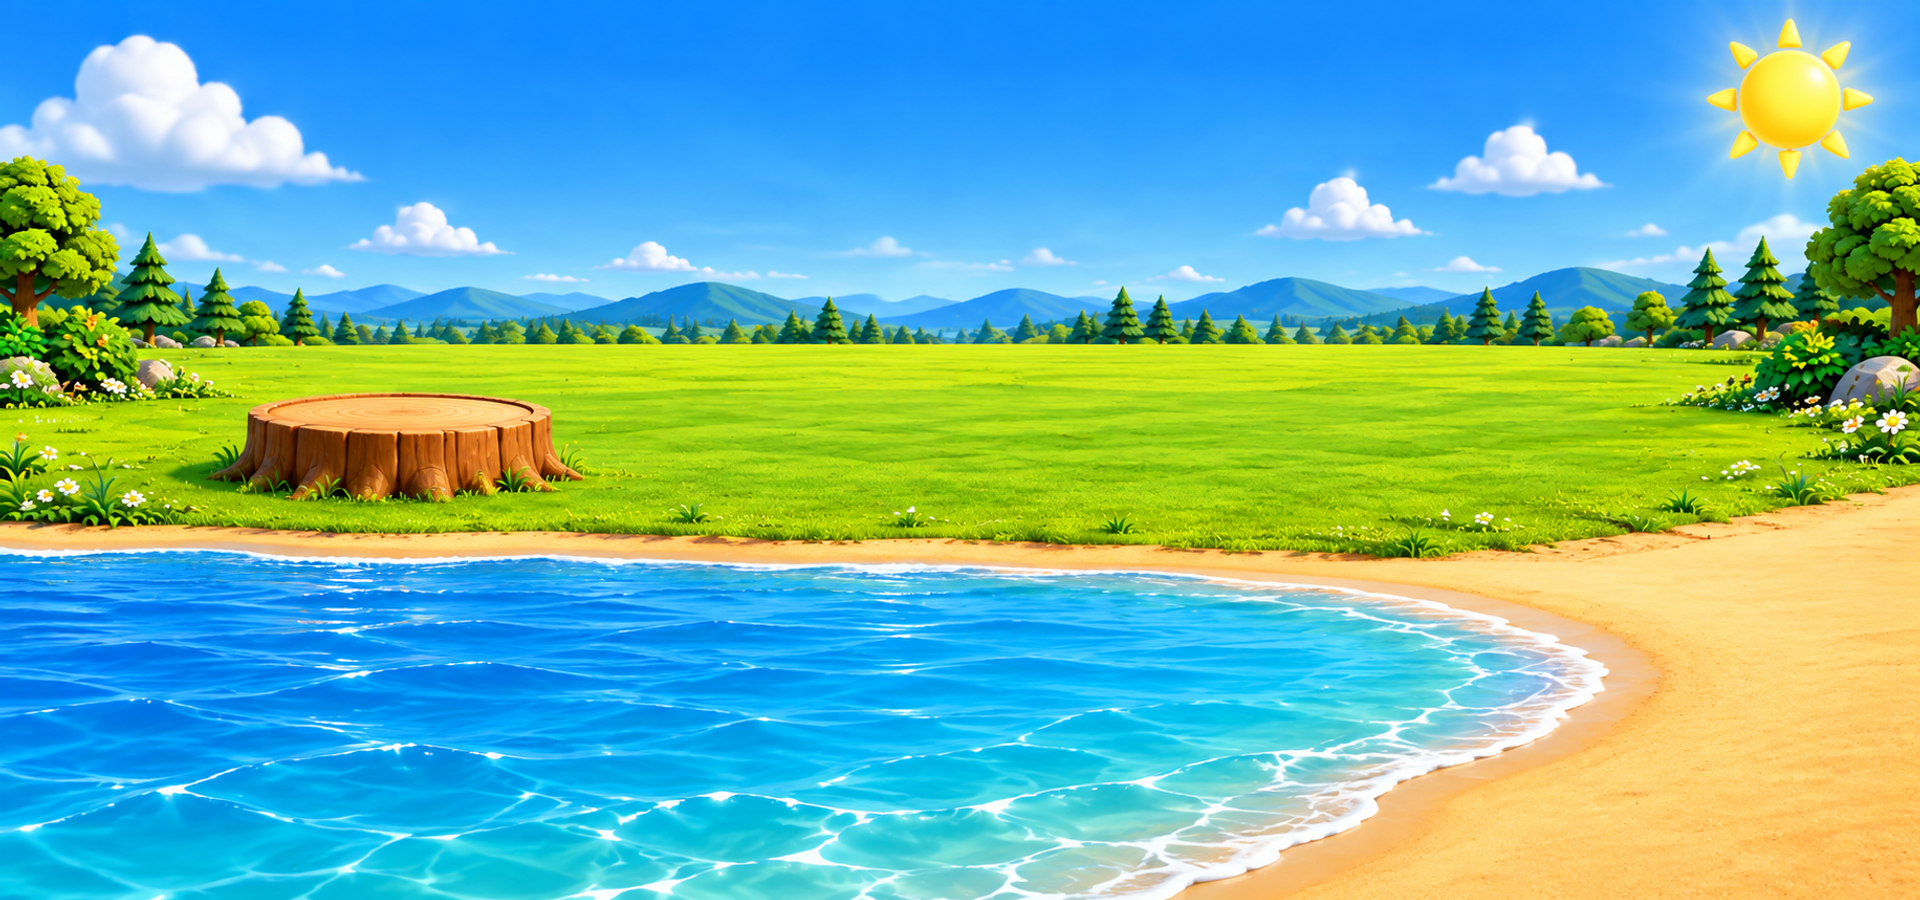
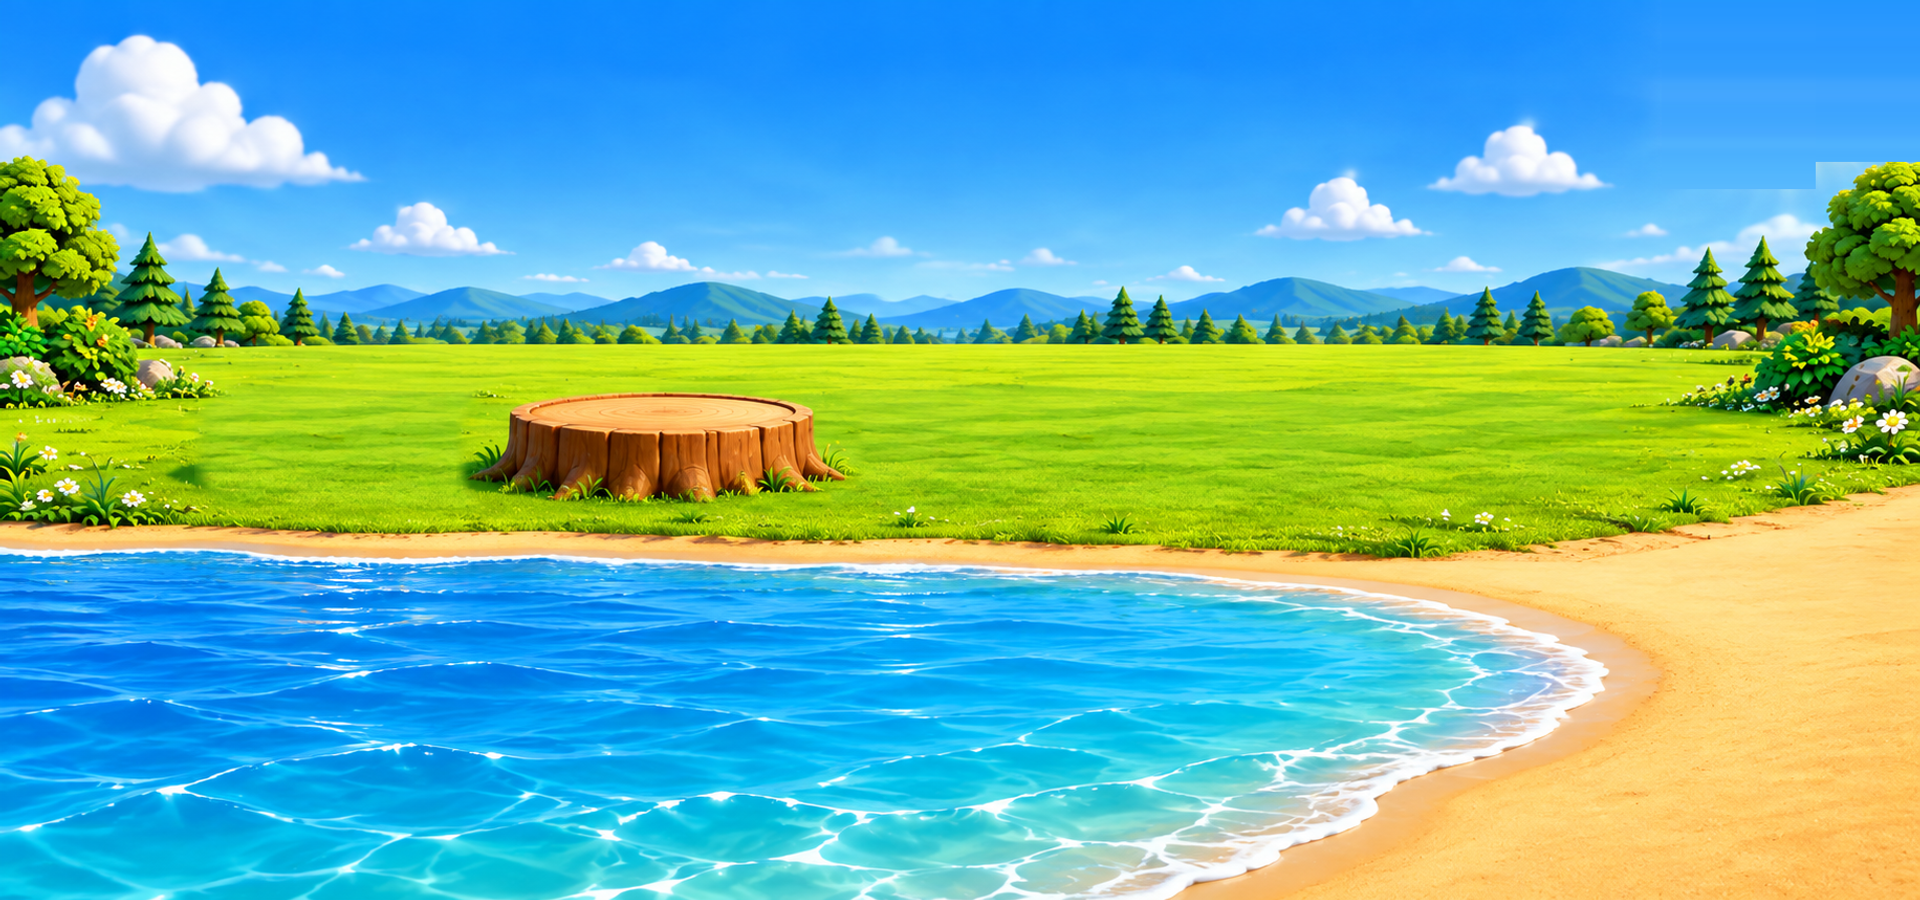
Land/Sea/Air: the waiting animal stands on the stump (stump moved right in the picture, clear of the Back button), sun painted out (it sat under the coin counter), only 3 animals already in each zone, air animals clear of the coin counter

Changed region(s): [[0.0938, 0.4044, 0.4688, 0.5911], [0.875, 0.0, 1.0, 0.2178]]

diff --git a/tools/art-import/import-scene-bg.js b/tools/art-import/import-scene-bg.js
@@ -1,21 +1,44 @@
 // A game's own full-screen background: ~/Downloads/<source file> -> Resources/Art/world/<name>.png (1920x900: cover-resized to 1920
-// wide, then cropped vertically, `top` px cut from the top). Usage: node import-scene-bg.js <source.png> <name> [top]
+// wide, then cropped vertically, `top` px cut from the top). Usage:
+//   node import-scene-bg.js <source.png> <name> [top] [--fill=x,y,w,h[,srcX] ...]
+// --fill (source pixels, repeatable) paints out the w x h rectangle at (x,y) by stretching a pixel column (the one just left of it, or at srcX) across it,
+// row by row (the sun, which sits under the coin counter, becomes plain sky).
+// --move=x,y,w,h,newX,grassX (source pixels) lifts the w x h piece at (x,y) out (soft edged), covers the hole with grass copied from
+// (grassX,y) and puts the piece down at newX (the stump, moved right so the animal waiting on it clears the Back button).
 //   node tools/art-import/import-scene-bg.js domestic_wild_bg2.png domestic_wild_bg
-//   node tools/art-import/import-scene-bg.js land_sea_air_bg.png land_sea_air_bg
+//   node tools/art-import/import-scene-bg.js land_sea_air_bg.png land_sea_air_bg 0 --fill=1585,0,147,180 --fill=1732,0,100,154,1575 --move=185,360,390,135,435,900
 const path = require('path');
 const os = require('os');
 const sharp = require(path.join(__dirname, 'node_modules', 'sharp'));
 
-const [source, name, topArg] = process.argv.slice(2);
-if (!source || !name) { console.error('usage: node import-scene-bg.js <source.png> <name> [top]'); process.exit(1); }
+const args = process.argv.slice(2);
+const fills = args.filter(a => a.startsWith('--fill=')).map(a => a.slice(7).split(',').map(Number));
+const moves = args.filter(a => a.startsWith('--move=')).map(a => a.slice(7).split(',').map(Number));
+const [source, name, topArg] = args.filter(a => !a.startsWith('--fill=') && !a.startsWith('--move='));
+if (!source || !name) { console.error('usage: node import-scene-bg.js <source.png> <name> [top] [--fill=x,y,w,h]'); process.exit(1); }
 const src = path.join(os.homedir(), 'Downloads', source);
 const dest = path.join(__dirname, '..', '..', 'EvasLearningWorld', 'Assets', 'Eva', 'Resources', 'Art', 'world', name + '.png');
 
 (async () => {
-  const meta = await sharp(src).metadata();
+  let image = await sharp(src).toBuffer();
+  if (fills.length) {
+    const layers = [];
+    for (const [x, y, w, h, srcX] of fills) {
+      const column = await sharp(image).extract({ left: srcX !== undefined ? srcX : x - 8, top: y, width: 6, height: h }).resize(1, h, { fit: "fill" }).toBuffer();
+      layers.push({ input: await sharp(column).resize(w, h, { kernel: "nearest", fit: "fill" }).blur(2).toBuffer(), left: x, top: y });
+    }
+    image = await sharp(image).composite(layers).toBuffer();
+  }
+  for (const [x, y, w, h, newX, grassX] of moves) {
+    const soft = async (inset, blur) => sharp(Buffer.from(`<svg xmlns="http://www.w3.org/2000/svg" width="${w}" height="${h}"><rect x="${inset}" y="${inset}" width="${w - 2 * inset}" height="${h - 2 * inset}" rx="${h / 3}" fill="white"/></svg>`)).blur(blur).png().toBuffer();
+    const piece = await sharp(image).extract({ left: x, top: y, width: w, height: h }).composite([{ input: await soft(5, 5), blend: "dest-in" }]).png().toBuffer();
+    const grass = await sharp(image).extract({ left: grassX, top: y, width: w, height: h }).composite([{ input: await soft(6, 7), blend: "dest-in" }]).png().toBuffer();
+    image = await sharp(image).composite([{ input: grass, left: x, top: y }, { input: piece, left: newX, top: y }]).toBuffer();
+  }
+  const meta = await sharp(image).metadata();
   const height = Math.round(meta.height * 1920 / meta.width);
-  const resized = await sharp(src).resize(1920, height).toBuffer();
+  const resized = await sharp(image).resize(1920, height).toBuffer();
   const top = Math.max(0, Math.min(parseInt(topArg || '0', 10), height - 900));
   await sharp(resized).extract({ left: 0, top, width: 1920, height: 900 }).png().toFile(dest);
-  console.log('written', dest, 'resized height', height, 'top crop', top);
+  console.log('written', dest, 'resized height', height, 'top crop', top, 'fills', fills.length);
 })();

diff --git a/EvasLearningWorld/Assets/Eva/Tests/DropSortScreenTests.cs b/EvasLearningWorld/Assets/Eva/Tests/DropSortScreenTests.cs
@@ -186,6 +186,7 @@ namespace EvasLearningWorld.Tests
             // Inside a game only Back shows, at the Home corner (Hud.SetBackVisible); its picture is drawn Hud.HomeIconInset in from the tap area.
             var buttons = Rect.MinMaxRect(-690f + Hud.HomeIconInset, 175f + Hud.HomeIconInset, -450f - Hud.HomeIconInset, 415f - Hud.HomeIconInset);
             var companions = Rect.MinMaxRect(400f, -450f, 720f, -240f);
+            var coinCounter = Rect.MinMaxRect(320f, 300f, 720f, 450f); // the piggy bank and up to five digits, top right
             foreach (var layout in Layouts)
             {
                 var home = Rect.MinMaxRect(layout.Home.x - 120f, layout.Home.y - 120f, layout.Home.x + 120f, layout.Home.y + 120f);
@@ -195,7 +196,7 @@ namespace EvasLearningWorld.Tests
                 for (var zone = 0; zone < layout.ZoneCount; zone++)
                 {
                     var slots = layout.Slots[zone];
-                    Assert.That(slots.Length - layout.FarCount, Is.GreaterThanOrEqualTo(DropSortRoundBuilder.MaxItems), "room for everything sorted in zone " + zone);
+                    Assert.That(slots.Length - layout.FarCount, Is.GreaterThanOrEqualTo(6), "room for the animals already there and the ones sorted, zone " + zone);
                     for (var k = 0; k < slots.Length; k++)
                     {
                         var half = slots[k].Size / 2f;
@@ -210,6 +211,7 @@ namespace EvasLearningWorld.Tests
                         Assert.That(r.Overlaps(buttons), Is.False, label + " vs the Back button");
                         Assert.That(r.Overlaps(home), Is.False, label + " vs the item home");
                         Assert.That(r.Overlaps(companions), Is.False, label + " vs the companion pair");
+                        Assert.That(r.Overlaps(coinCounter), Is.False, label + " vs the coin counter");
                         var farK = k >= layout.NearCount(zone);
                         for (var j = k + 1; j < slots.Length; j++)
                         {
@@ -245,7 +247,7 @@ namespace EvasLearningWorld.Tests
         }
 
         [Test]
-        public void LandSeaAirShowsThreeZonesFiveAnimalsEachAndNoWaitingRowAtEveryLevel()
+        public void LandSeaAirShowsThreeZonesThreeAnimalsEachAndNoWaitingRowAtEveryLevel()
         {
             Assert.That(Resources.Load<Sprite>("Art/world/land_sea_air_bg"), Is.Not.Null);
             for (var level = DifficultyLadder.MinLevel; level <= DifficultyLadder.MaxLevel; level++)
@@ -253,7 +255,7 @@ namespace EvasLearningWorld.Tests
                 var screen = ShowLandSeaAir(level);
                 Assert.That(screen.CurrentRound.BinCategories, Is.EqualTo(new[] { "air", "land", "sea" }), "level " + level);
                 var shown = DvwRoot.Find("ResidentField").Cast<Transform>().Count(r => r.gameObject.activeSelf);
-                Assert.That(shown, Is.EqualTo(3 * DropSortRoundBuilder.ResidentsPerBin), "level " + level);
+                Assert.That(shown, Is.EqualTo(3 * DropSortRoundBuilder.FewResidentsPerBin), "level " + level);
                 Assert.That(DvwRoot.Find("WaitingField").Cast<Transform>().Count(w => w.gameObject.activeSelf), Is.EqualTo(0));
             }
         }

diff --git a/EvasLearningWorld/Assets/Eva/App/Screens/ResidentsScene.cs b/EvasLearningWorld/Assets/Eva/App/Screens/ResidentsScene.cs
@@ -87,7 +87,7 @@ namespace EvasLearningWorld.App
         // --- Land / Sea / Air: sky on top, a meadow in the middle, a bay below, a stump at the left where the waiting animal stands -----
 
         // Measured on world/land_sea_air_bg (1920x900 frame): horizon at y 105 (top of the grass), shore at y -90, the bay's
-        // outline (the beach fills the bottom-right corner, where the companion pair stands); the stump is at (-562, 36) and the animal waits in front of it.
+        // outline (the beach fills the bottom-right corner, where the companion pair stands); the stump (moved right in the picture so the animal on it clears the Back button) is at (-300, 36) and the animal waits on it.
         public static readonly ResidentsLayout LandSeaAir = BuildLandSeaAir();
 
         private static readonly Vector2[] BayOutline =
@@ -98,22 +98,26 @@ namespace EvasLearningWorld.App
 
         private static ResidentsLayout BuildLandSeaAir()
         {
-            // Ten slots per zone, listed in the order they fill, scattered so the first five already look spread out.
+            // Eight slots per zone (a few animals are there at the start, at most two more join), clear of the waiting animal on the
+            // stump, the Back button, the coin counter and the companion pair. They fill in a scattered order so the first ones already
+            // look spread out.
+            var airAt = new[] { (-100f, 250f), (20f, 250f), (140f, 250f), (260f, 250f), (-40f, 345f), (80f, 345f), (200f, 345f), (-300f, 345f) };
+            var landAt = new[] { (-80f, 55f), (50f, 55f), (180f, 55f), (310f, 55f), (-15f, -35f), (115f, -35f), (245f, -35f), (375f, -35f) };
+            var seaY = new[] { -190f, -290f, -380f };
             var air = new List<ResidentSlot>();
             var land = new List<ResidentSlot>();
             var sea = new List<ResidentSlot>();
-            var seaY = new[] { -190f, -290f, -380f };
-            for (var i = 0; i < 10; i++)
+            for (var i = 0; i < 8; i++)
             {
-                var j = i * 3 % 10;
-                air.Add(new ResidentSlot(-330f + 100f * j, j % 2 == 0 ? 250f : 335f, 90f));
-                land.Add(new ResidentSlot(-250f + j / 2 * 130f + (j % 2 == 1 ? 65f : 0f), j % 2 == 0 ? 55f : -35f, 90f));
-                sea.Add(new ResidentSlot(-600f + 95f * j, seaY[j % 3], 90f));
+                var j = i * 3 % 8;
+                air.Add(new ResidentSlot(airAt[j].Item1, airAt[j].Item2, 90f));
+                land.Add(new ResidentSlot(landAt[j].Item1, landAt[j].Item2, 90f));
+                sea.Add(new ResidentSlot(-600f + 110f * j, seaY[j % 3], 90f));
             }
             return new ResidentsLayout
             {
                 Categories = new[] { "air", "land", "sea" },
-                Home = new Vector2(-470f, 55f), // beside the stump, clear of the Back button above it
+                Home = new Vector2(-300f, 140f), // standing on the stump
                 NearHomeRadius = 150f,
                 Gates = new[] { new Vector2(150f, 280f), new Vector2(100f, 10f), new Vector2(-150f, -260f) },
                 Slots = new[] { air.ToArray(), land.ToArray(), sea.ToArray() },

diff --git a/EvasLearningWorld/Assets/Eva/Rules/DropSort.cs b/EvasLearningWorld/Assets/Eva/Rules/DropSort.cs
@@ -38,6 +38,7 @@ namespace EvasLearningWorld.Rules
         public const int MaxItems = 6;
         public const int MaxBins = 3;
         public const int ResidentsPerBin = 5;
+        public const int FewResidentsPerBin = 3; // Land/Sea/Air: too many animals standing about looks crowded
 
         // Index i = level (i + 1): how many things to put away and into how many bins.
         public static readonly int[] ItemCountByLevel = { 3, 4, 4, 5, 6, 6 };
@@ -79,7 +80,7 @@ namespace EvasLearningWorld.Rules
         public static DropSortRound Create(int level, Random rng) => Create(Catalogue, level, rng);
 
         // minBins forces at least that many bins (a three-zone scene always shows all three), as far as the catalogue has categories.
-        public static DropSortRound Create(IReadOnlyList<(string Id, string Category)> catalogue, int level, Random rng, int minBins = 0)
+        public static DropSortRound Create(IReadOnlyList<(string Id, string Category)> catalogue, int level, Random rng, int minBins = 0, int residentsPerBin = ResidentsPerBin)
         {
             if (level < DifficultyLadder.MinLevel || level > DifficultyLadder.MaxLevel) throw new ArgumentOutOfRangeException(nameof(level));
             var itemCount = ItemCountByLevel[level - DifficultyLadder.MinLevel];
@@ -119,11 +120,11 @@ namespace EvasLearningWorld.Rules
                 items.AddRange(catalogue.Where(c => c.Category == category).OrderBy(_ => rng.Next()).Take(counts[b]));
             }
             var belt = items.OrderBy(_ => rng.Next()).ToArray();
-            // When a category has fewer kinds than ResidentsPerBin (only three animals fly) the kinds repeat.
+            // When a category has fewer kinds than residentsPerBin (only three animals fly) the kinds repeat.
             var residents = bins.Select(category =>
             {
                 var kinds = catalogue.Where(c => c.Category == category).Select(c => c.Id).OrderBy(_ => rng.Next()).ToArray();
-                return Enumerable.Range(0, ResidentsPerBin).Select(i => kinds[i % kinds.Length]).ToArray();
+                return Enumerable.Range(0, residentsPerBin).Select(i => kinds[i % kinds.Length]).ToArray();
             }).ToArray();
 
             return new DropSortRound

diff --git a/EvasLearningWorld/Assets/Eva/Tests/DropSortTests.cs b/EvasLearningWorld/Assets/Eva/Tests/DropSortTests.cs
@@ -232,18 +232,18 @@ namespace EvasLearningWorld.Tests
         }
 
         [Test]
-        public void LandSeaAirAlwaysHasAllThreeZonesInTheirOrderAndFiveResidentsEach()
+        public void LandSeaAirAlwaysHasAllThreeZonesInTheirOrderAndThreeResidentsEach()
         {
             for (var level = DifficultyLadder.MinLevel; level <= DifficultyLadder.MaxLevel; level++)
             {
                 var catalogue = ZooFarmRoundGenerator.DropSortCatalogue(ZooFarmGameKind.LandSeaAir, level);
                 for (var seed = 0; seed < 30; seed++)
                 {
-                    var round = DropSortRoundBuilder.Create(catalogue, level, new System.Random(seed), 3).WithBinOrder("air", "land", "sea");
+                    var round = DropSortRoundBuilder.Create(catalogue, level, new System.Random(seed), 3, DropSortRoundBuilder.FewResidentsPerBin).WithBinOrder("air", "land", "sea");
                     Assert.That(round.BinCategories, Is.EqualTo(new[] { "air", "land", "sea" }), "level " + level + " seed " + seed);
                     for (var b = 0; b < 3; b++)
                     {
-                        Assert.That(round.Residents[b].Length, Is.EqualTo(DropSortRoundBuilder.ResidentsPerBin));
+                        Assert.That(round.Residents[b].Length, Is.EqualTo(DropSortRoundBuilder.FewResidentsPerBin));
                         foreach (var id in round.Residents[b]) Assert.That(catalogue.First(c => c.Id == id).Category, Is.EqualTo(round.BinCategories[b]));
                     }
                     for (var i = 0; i < round.ItemIds.Length; i++)

diff --git a/EvasLearningWorld/Assets/Eva/App/EvaGame.cs b/EvasLearningWorld/Assets/Eva/App/EvaGame.cs
@@ -182,7 +182,7 @@ namespace EvasLearningWorld.App
                 DropSortRoundBuilder.RoundsPerSession, "zoofarm/animal_", "zoofarm/bucket_",
                 "zoofarm_prompt_domestic_wild", "sorting_drag_hint", "sorting_drag_demo", "zoofarm_ds_", true, ResidentsLayout.DomesticVsWild));
             Navigator.Register(ScreenId.LandSeaAir, new DropSortScreen(ScreenId.LandSeaAir, ScreenId.ZooFarm, "world/land_sea_air_bg",
-                (level, rng) => DropSortRoundBuilder.Create(ZooFarmRoundGenerator.DropSortCatalogue(ZooFarmGameKind.LandSeaAir, level), level, rng, 3).WithBinOrder("air", "land", "sea"),
+                (level, rng) => DropSortRoundBuilder.Create(ZooFarmRoundGenerator.DropSortCatalogue(ZooFarmGameKind.LandSeaAir, level), level, rng, 3, DropSortRoundBuilder.FewResidentsPerBin).WithBinOrder("air", "land", "sea"),
                 p => p.LandSeaAirLevel, (p, v) => p.LandSeaAirLevel = v, p => p.LandSeaAirBuffer,
                 DropSortRoundBuilder.RoundsPerSession, "zoofarm/animal_", "zoofarm/bucket_",
                 "zoofarm_prompt_land_sea_air", "sorting_drag_hint", "sorting_drag_demo", "zoofarm_ds_", true, ResidentsLayout.LandSeaAir));

diff --git a/art/eva/map/PROMPTS.md b/art/eva/map/PROMPTS.md
@@ -39,3 +39,11 @@ Use the small per-road guides instead of the big layout guide: attach `road_scho
 - the three buildings are isolated, similar in visual size and detail
 - each road follows its red line and nothing crosses it
 - if a picture is wrong, ask ChatGPT for a new one with the same prompt (never ask us to move the game's positions or routes).
+
+## Single-screen world map (v2) - `world/map_bg` (replaces the scrolling 3600x1350 world, see the chat of 2026-10-06)
+
+One 16:9 picture, no panning: a green meadow with a tan dirt-path tree growing out of a central hub (the House) to 10 round clearings (the
+other places). Buildings are drawn by the game on top of the clearings, so the picture has none. Node positions (percent of the picture,
+x from the left, y from the top): House hub (50,50); A (34,30); B (49,23); C (64,30); D (80,36); E (19,48); F (36,64); G (80,64);
+H (64,66); I (50,80); J (22,76). Any two nodes are >= 13% of the width apart (a building is 240 units = 12.5% wide) or >= 27% of the height
+apart. Keep clear: top-left corner (settings gear), top-right corner (coin counter). Measure the real centres after generating.
